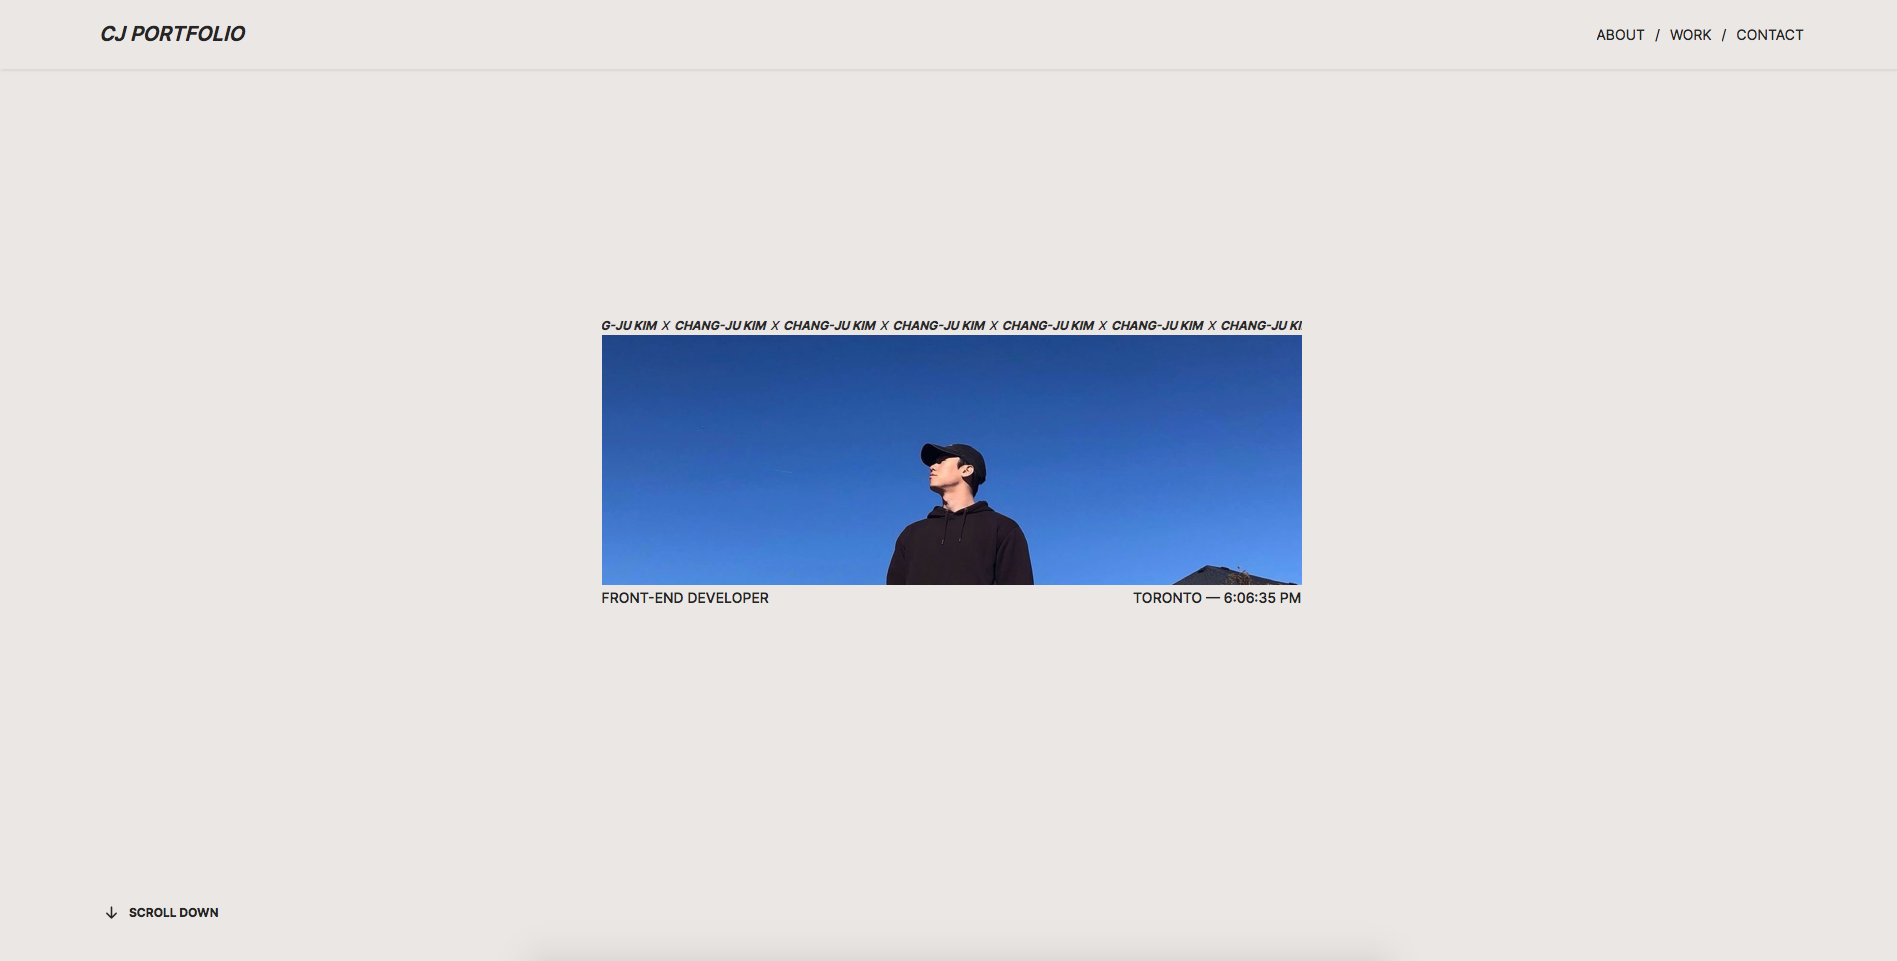
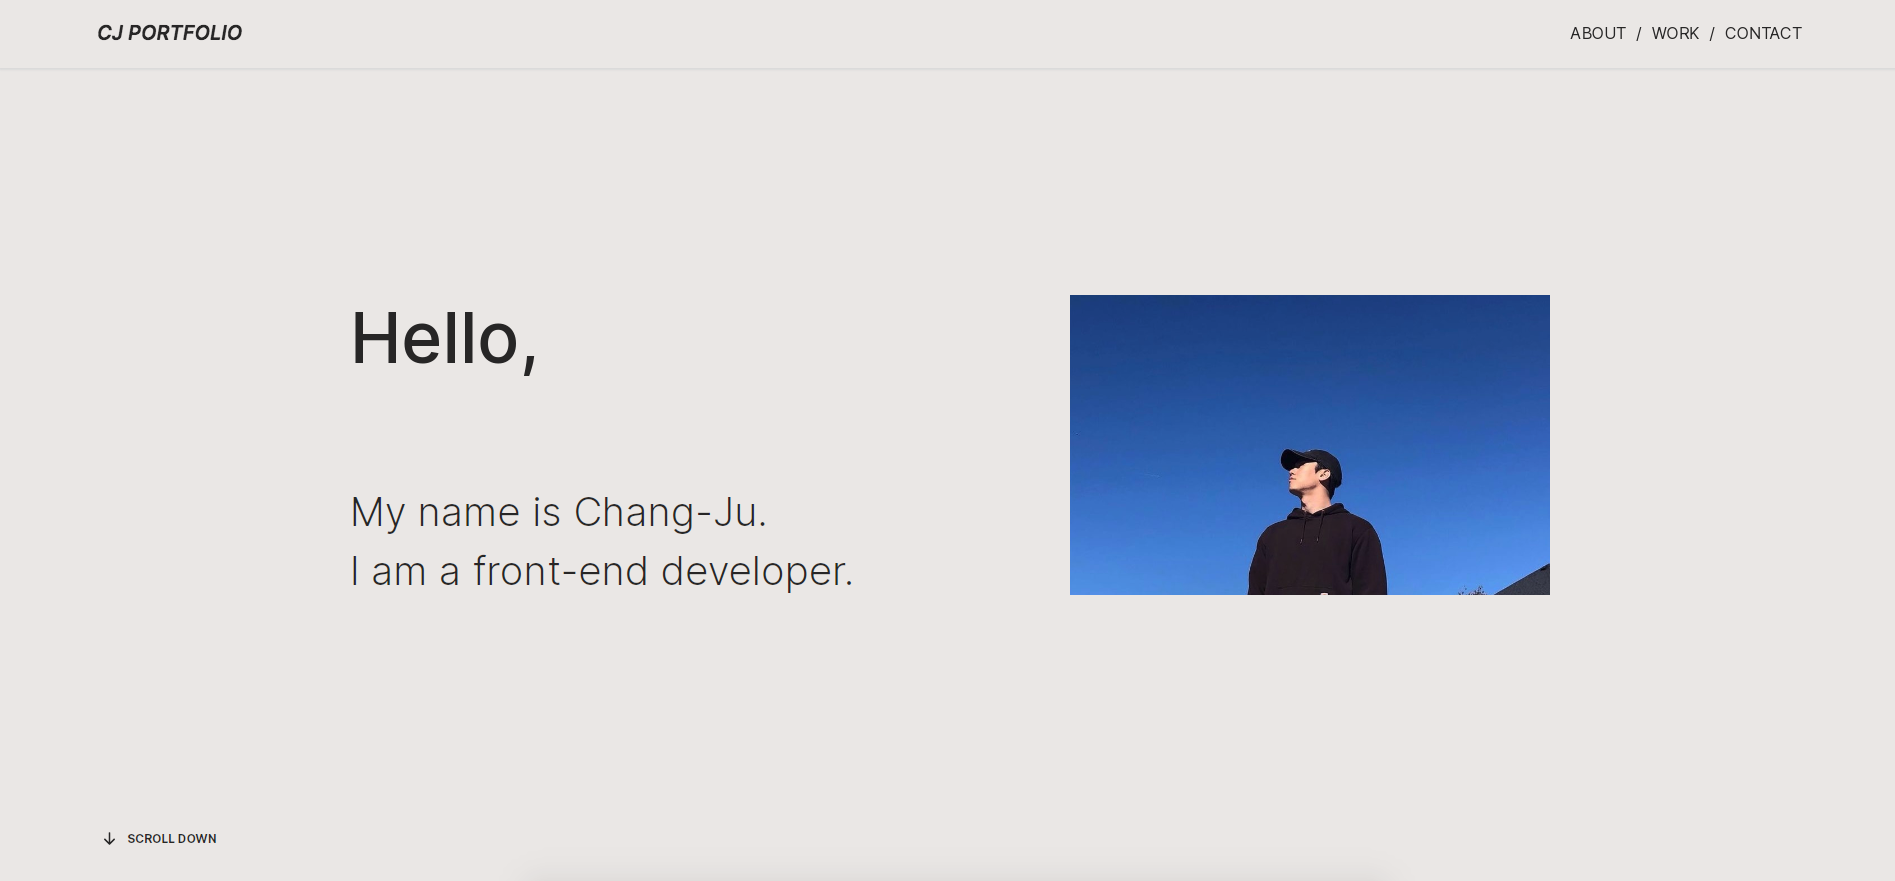
Added toronto time

diff --git a/src/components/Hero/Hero.js b/src/components/Hero/Hero.js
@@ -2,6 +2,7 @@ import React, { useState, useEffect } from "react";
 import { motion } from "framer-motion";
 import styles from "./Hero.module.css";
 import { BsArrowDownShort } from "react-icons/bs";
+import Time from "./Time";
 
 const hero = {
   visible: {
@@ -32,7 +33,7 @@ const fromBottom = {
   },
   hidden: {
     opacity: 0,
-    y: 5,
+    y: 10,
   },
 };
 
@@ -47,25 +48,11 @@ const fromTop = {
   },
   hidden: {
     opacity: 0,
-    y: -5,
+    y: -10,
   },
 };
 
 const Hero = () => {
-  const [date, setDate] = useState(new Date());
-
-  const tick = () => {
-    setDate(new Date());
-  };
-
-  useEffect(() => {
-    const timerID = setInterval(() => tick(), 1000);
-
-    return () => {
-      clearInterval(timerID);
-    };
-  }, []);
-
   return (
     <motion.div
       initial="hidden"
@@ -75,7 +62,7 @@ const Hero = () => {
     >
       <div className={styles["hero-container"]}>
         <div className={styles.image}>
-          <motion.p variants={opacity} className={styles.greeting}>
+          <motion.p variants={fromBottom} className={styles.greeting}>
             Hello,
           </motion.p>
           <motion.div variants={opacity}>
@@ -83,19 +70,26 @@ const Hero = () => {
           </motion.div>
         </div>
         <div className={styles.intro}>
-          <motion.p variants={opacity} className={styles.greeting}>
+          <motion.p variants={fromBottom} className={styles.greeting}>
             Hello,
           </motion.p>
           <div>
-            <motion.p variants={opacity}>My name is Chang-Ju.</motion.p>
-            <motion.p variants={opacity}>I am a front-end developer.</motion.p>
+            <motion.p variants={fromBottom}>My name is Chang-Ju.</motion.p>
+            <motion.p variants={fromBottom}>
+              I am a front-end developer.
+            </motion.p>
           </div>
         </div>
       </div>
-      <motion.div variants={fromTop} className={styles["scroll-prompt"]}>
-        <BsArrowDownShort className={styles["arrow-icon"]} />
-        <p>Scroll Down</p>
-      </motion.div>
+      <div className={styles["bottom-section"]}>
+        <motion.div variants={fromTop} className={styles["scroll-prompt"]}>
+          <BsArrowDownShort className={styles["arrow-icon"]} />
+          <p>Scroll Down</p>
+        </motion.div>
+        <motion.div variants={fromTop} className={styles.time}>
+          <Time />
+        </motion.div>
+      </div>
     </motion.div>
   );
 };

diff --git a/src/components/Hero/Hero.module.css b/src/components/Hero/Hero.module.css
@@ -1,8 +1,6 @@
 .hero {
-    /* height: 100vh; */
     min-height: 100vh;
     padding: 7rem 0;
-    /* text-transform: uppercase; */
     display: flex;
     flex-direction: column;
     align-items: center;
@@ -74,9 +72,6 @@ p {
 .hero-container {
     display: flex;
     flex-direction: column;
-    /* justify-content: space-between;
-    flex: 1; */
-    /* max-height: 45rem; */
     width: 100%;
     overflow: hidden;
     max-width: 120rem;
@@ -105,15 +100,20 @@ p {
     flex-direction: column;
 }
 
-.scroll-prompt {
-    display: flex;
-    align-items: center;
+.bottom-section {
     position: absolute;
     width: 100%;
-    /* max-width: 150rem; */
     left: 0;
     bottom: clamp(3rem, 3vw, 4rem);
     margin: auto;
+    display: flex;
+    justify-content: space-between;
+    align-items: center;
+}
+
+.scroll-prompt {
+    display: flex;
+    align-items: center;
 }
 
 .scroll-prompt p {
@@ -138,11 +138,8 @@ p {
 }
 
 .intro p {
-    /* font-size: 2rem; */
     font-size: clamp(2rem, 3.4vw, 4rem);
     font-weight: var(--fw-light);
-    /* color: rgb(108, 108, 108); */
-    /* text-align: right; */
 }
 
 .intro p:not(:last-child) {
@@ -191,22 +188,8 @@ p {
     }
 }
 
-@media only screen and (min-width: 61.25em) {
-    .hero {
-        /* flex-direction: row-reverse;
-        align-items: center; */
-        /* width: 80%; */
-    }
-
-    .hero-text {
-        flex: 1;
-    }
-
-    .hero-image {
-        background-position: 50% 80%;
-    }
-
-    .contact {
+@media only screen and (max-width: 20em) {
+    .time {
         display: none;
     }
 }

diff --git a/src/components/Hero/Time.js b/src/components/Hero/Time.js
@@ -1,0 +1,24 @@
+import React, { useState, useEffect } from "react";
+import styles from "./Time.module.css";
+
+const Time = () => {
+  const [date, setDate] = useState(new Date());
+
+  const tick = () => {
+    setDate(new Date());
+  };
+
+  useEffect(() => {
+    const timerID = setInterval(() => tick(), 1000);
+
+    return () => {
+      clearInterval(timerID);
+    };
+  }, []);
+
+  const time = date.toLocaleTimeString("en-US", { timeZone: "EST" });
+
+  return <p className={styles.time}>Toronto &#8212; {time}</p>;
+};
+
+export default Time;

diff --git a/src/components/Hero/Time.module.css b/src/components/Hero/Time.module.css
@@ -1,0 +1,5 @@
+.time {
+    font-size: clamp(1rem, 1.1vw, 1.2rem);
+    font-weight: var(--fw-bold);
+    text-transform: uppercase;
+}
